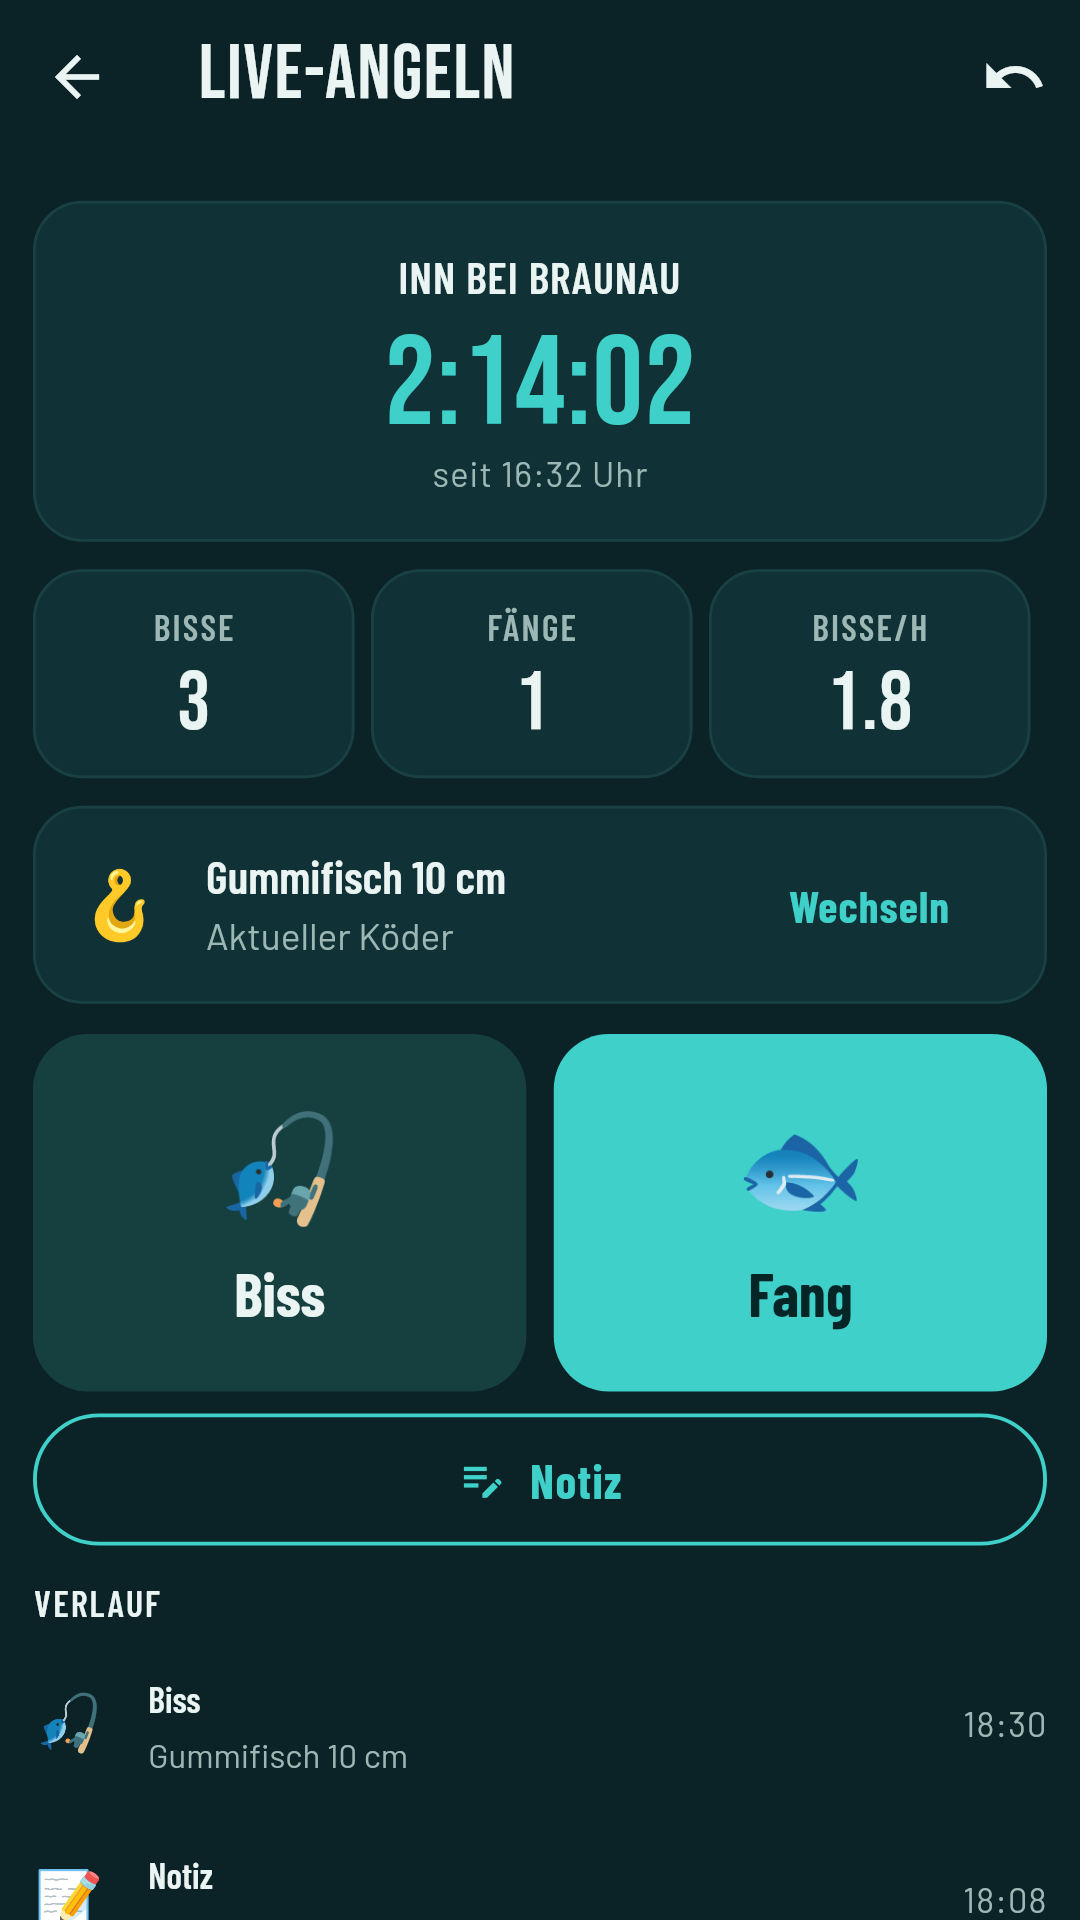
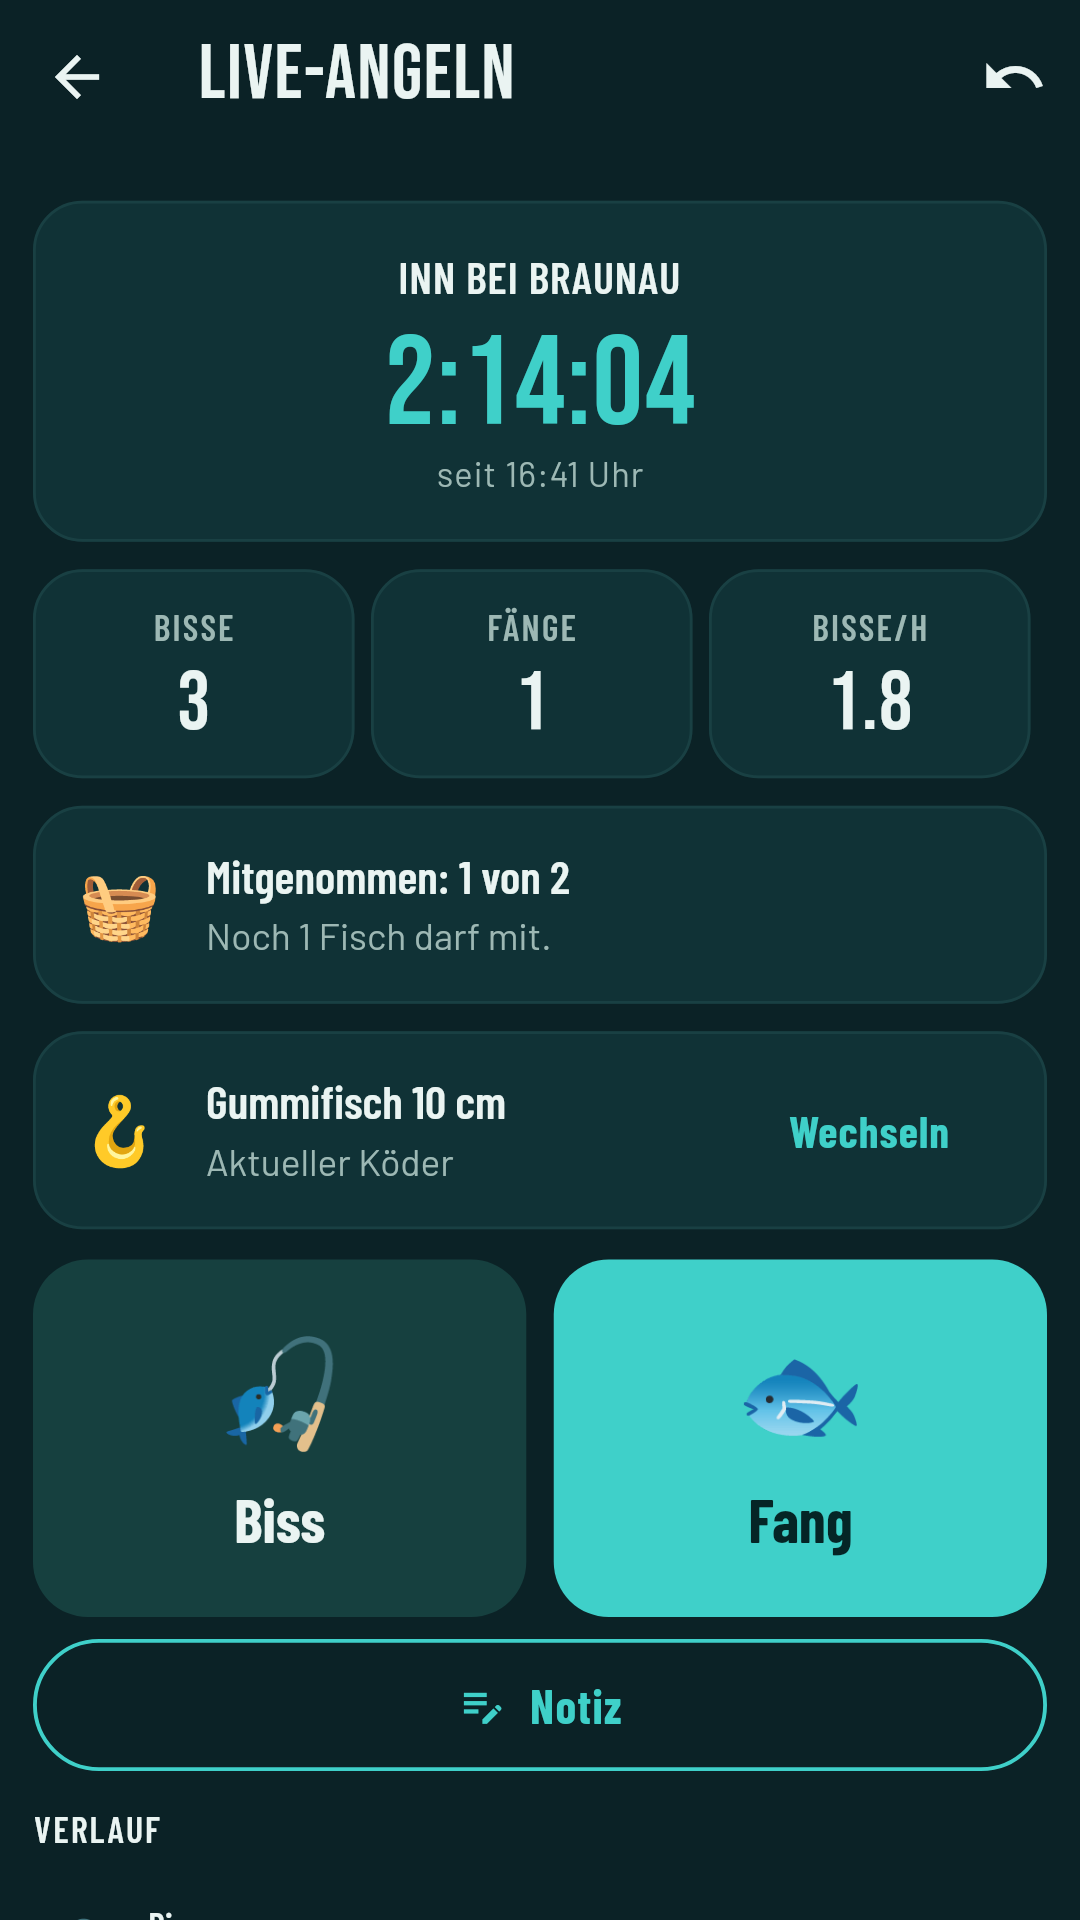
Live-Angeln: Tageslimit laut Revier; Fang-Formular gibt den Fang zurück; Fischart-Auswahl ragt nicht mehr über den Rand [skip ci]
- Limit beim Start eintragen, Anzeige 'Mitgenommen x von y', Warnung beim Erreichen
- Fischart-Dropdown mit isExpanded (lange Namen ragten im klassischen Design 113 px hinaus)
- Test für den ganzen Ablauf Live-Angeln → Formular → Limit

Claude-Session: https://claude.ai/code/session_01JSqKKxvkfQShscKWMRN2jr

diff --git a/apps/austro_angler/test/widget_test.dart b/apps/austro_angler/test/widget_test.dart
@@ -1,3 +1,4 @@
+import 'dart:convert';
 import 'dart:typed_data';
 
 import 'package:austro_angler/data/fische.dart';
@@ -22,6 +23,8 @@ import 'package:austro_angler/services/angelplaner.dart';
 import 'package:austro_angler/services/abzeichen.dart';
 import 'package:austro_angler/screens/karriere_screen.dart';
 import 'package:austro_angler/screens/petri_screen.dart';
+import 'package:austro_angler/screens/live_angeln_screen.dart';
+import 'package:austro_angler/screens/fangbuch_screen.dart';
 import 'package:austro_angler/services/alle_gewaesser.dart';
 import 'package:austro_angler/services/konto.dart';
 import 'package:austro_angler/services/speicher.dart';
@@ -290,10 +293,10 @@ void main() {
     final start = DateTime(2026, 6, 1, 6);
     final s = Sitzung(start: start, gewaesser: 'Wörthersee', koeder: 'Wurm');
     s.eintraege.addAll([
-      (zeit: start.add(const Duration(minutes: 10)), art: Ereignis.biss, text: 'Wurm'),
-      (zeit: start.add(const Duration(minutes: 20)), art: Ereignis.koeder, text: 'Spinner'),
-      (zeit: start.add(const Duration(minutes: 30)), art: Ereignis.fang, text: 'Spinner'),
-      (zeit: start.add(const Duration(minutes: 40)), art: Ereignis.notiz, text: 'Wind'),
+      (zeit: start.add(const Duration(minutes: 10)), art: Ereignis.biss, text: 'Wurm', mit: false),
+      (zeit: start.add(const Duration(minutes: 20)), art: Ereignis.koeder, text: 'Spinner', mit: false),
+      (zeit: start.add(const Duration(minutes: 30)), art: Ereignis.fang, text: 'Spinner', mit: false),
+      (zeit: start.add(const Duration(minutes: 40)), art: Ereignis.notiz, text: 'Wind', mit: false),
     ]);
     final ende = start.add(const Duration(hours: 2));
     expect(s.zaehle(Ereignis.biss), 1);
@@ -305,6 +308,20 @@ void main() {
     expect(kopie.gewaesser, 'Wörthersee');
     expect(kopie.eintraege.length, 4);
     expect(kopie.eintraege[2].art, Ereignis.fang);
+
+    // Tageslimit: nur mitgenommene Fische zählen.
+    final mitLimit = Sitzung(start: start, gewaesser: 'Inn', koeder: '', limit: 2)
+      ..eintraege.addAll([
+        (zeit: start, art: Ereignis.fang, text: '', mit: true),
+        (zeit: start, art: Ereignis.fang, text: '', mit: false),
+      ]);
+    expect(mitLimit.mitgenommen, 1);
+    expect(mitLimit.limitErreicht, isFalse);
+    mitLimit.eintraege.add((zeit: start, art: Ereignis.fang, text: '', mit: true));
+    expect(mitLimit.limitErreicht, isTrue);
+    final json = Sitzung.fromJson(jsonDecode(jsonEncode(mitLimit.toJson())) as Map<String, dynamic>)!;
+    expect(json.limit, 2);
+    expect(json.mitgenommen, 2);
   });
 
   test('Regeln heute: Status passt zu den Regeln', () {
@@ -501,5 +518,46 @@ void main() {
     // Ist das Zeitfenster heute schon vorbei, zählt der Tag nicht mehr.
     final spaet = besterTermin(plan, jetzt: DateTime(2026, 11, 10, 23));
     expect(spaet!.tag.tag, isNot(DateTime(2026, 11, 10)));
+  });
+
+  testWidgets('Live-Angeln: Fang aus dem Formular zählt fürs Tageslimit',
+      (tester) async {
+    tester.view.physicalSize = const Size(1080, 2400);
+    tester.view.devicePixelRatio = 2.5;
+    addTearDown(tester.view.reset);
+    SharedPreferences.setMockInitialValues({'einfuehrung': true, 'wasIstNeu': 99});
+    final speicher = await Speicher.oeffnen();
+    liveAngeln.sitzung = Sitzung(
+        start: DateTime.now().subtract(const Duration(hours: 1)),
+        gewaesser: 'Inn',
+        koeder: 'Wurm',
+        limit: 1);
+    addTearDown(() => liveAngeln.sitzung = null);
+    await tester.pumpWidget(AustroAnglerApp(speicher: speicher));
+    await tester.pump();
+    tester.state<NavigatorState>(find.byType(Navigator).first).push(
+        MaterialPageRoute(builder: (_) => const LiveAngelnScreen()));
+    for (var i = 0; i < 5; i++) {
+      await tester.pump(const Duration(milliseconds: 200));
+    }
+    expect(find.text('Mitgenommen: 0 von 1'), findsOneWidget);
+    await tester.tap(find.text('Fang'));
+    for (var i = 0; i < 5; i++) {
+      await tester.pump(const Duration(milliseconds: 200));
+    }
+    final speichern = find.widgetWithText(FilledButton, 'Speichern');
+    await tester.scrollUntilVisible(speichern, 300,
+        scrollable: find
+            .descendant(
+                of: find.byType(FangFormular), matching: find.byType(Scrollable))
+            .first);
+    await tester.tap(speichern);
+    for (var i = 0; i < 10; i++) {
+      await tester.pump(const Duration(milliseconds: 200));
+    }
+    expect(speicher.faenge.length, 1);
+    expect(liveAngeln.sitzung!.mitgenommen, 1);
+    expect(find.text('Mitgenommen: 1 von 1'), findsOneWidget);
+    expect(find.textContaining('Tageslimit erreicht'), findsWidgets);
   });
 }

diff --git a/apps/austro_angler/lib/screens/live_angeln_screen.dart b/apps/austro_angler/lib/screens/live_angeln_screen.dart
@@ -4,6 +4,7 @@ import 'package:flutter/material.dart';
 
 import '../design.dart';
 import '../main.dart';
+import '../models/fang.dart';
 import '../services/fang_dienst.dart';
 import '../services/live_angeln.dart';
 import '../services/fern_konfig.dart';
@@ -23,6 +24,7 @@ class LiveAngelnScreen extends StatefulWidget {
 class _LiveAngelnScreenState extends State<LiveAngelnScreen> {
   String _gewaesser = '';
   final _koeder = TextEditingController();
+  final _limit = TextEditingController();
   Timer? _uhr;
 
   @override
@@ -39,6 +41,7 @@ class _LiveAngelnScreenState extends State<LiveAngelnScreen> {
   void dispose() {
     _uhr?.cancel();
     _koeder.dispose();
+    _limit.dispose();
     super.dispose();
   }
 
@@ -68,13 +71,24 @@ class _LiveAngelnScreenState extends State<LiveAngelnScreen> {
   }
 
   Future<void> _fang(Sitzung s) async {
-    final gespeichert = await Navigator.of(context).push<bool>(
+    final ergebnis = await Navigator.of(context).push<Object?>(
       MaterialPageRoute(
         builder: (_) => FangFormular(
             vorGewaesser: s.gewaesser, vorKoeder: s.koeder),
       ),
     );
-    if (gespeichert == true) await liveAngeln.eintragen(Ereignis.fang);
+    if (ergebnis is! Fang) return;
+    final mit = !ergebnis.zurueckgesetzt;
+    final schonVoll = s.limitErreicht;
+    await liveAngeln.eintragen(Ereignis.fang, null, mit);
+    if (!mounted || !mit || s.limit == null) return;
+    if (schonVoll) {
+      meldung(context,
+          'Achtung: Dein Tageslimit von ${s.limit} Fischen war schon erreicht!');
+    } else if (s.limitErreicht) {
+      meldung(context,
+          'Tageslimit erreicht (${s.limit} Fische) – ab jetzt nur noch zurücksetzen.');
+    }
   }
 
   Future<void> _beenden() async {
@@ -170,6 +184,16 @@ class _LiveAngelnScreenState extends State<LiveAngelnScreen> {
             prefixIcon: Icon(Icons.phishing),
           ),
         ),
+        const SizedBox(height: 12),
+        TextField(
+          controller: _limit,
+          keyboardType: TextInputType.number,
+          decoration: const InputDecoration(
+            labelText: 'Tageslimit laut Revier (optional)',
+            hintText: 'z. B. 2 – so viele Fische dürfen mit',
+            prefixIcon: Icon(Icons.shopping_basket_outlined),
+          ),
+        ),
         const SizedBox(height: 20),
         FilledButton.icon(
           onPressed: () {
@@ -177,7 +201,8 @@ class _LiveAngelnScreenState extends State<LiveAngelnScreen> {
               meldung(context, 'Bitte zuerst ein Gewässer wählen.');
               return;
             }
-            liveAngeln.starten(_gewaesser, _koeder.text);
+            liveAngeln.starten(_gewaesser, _koeder.text,
+                limit: int.tryParse(_limit.text.trim()));
           },
           icon: const Icon(Icons.play_arrow),
           label: const Text('Los geht’s'),
@@ -221,6 +246,7 @@ class _LiveAngelnScreenState extends State<LiveAngelnScreen> {
             _Zahl('BISSE/H', s.bisseProStunde(jetzt).toStringAsFixed(1)),
           ],
         ),
+        if (s.limit != null) _Limit(s),
         Card(
           child: ListTile(
             leading: const Text('🪝', style: TextStyle(fontSize: 24)),
@@ -322,6 +348,35 @@ String _zusammenfassungText(Sitzung s, DateTime ende) {
     '${s.zaehle(Ereignis.biss)} Bisse, ${s.zaehle(Ereignis.fang)} Fänge',
     if (koeder != null) 'Bester Köder: $koeder',
   ].join(' · ');
+}
+
+/// Tageslimit: mitgenommene Fische von erlaubten.
+class _Limit extends StatelessWidget {
+  const _Limit(this.s);
+
+  final Sitzung s;
+
+  @override
+  Widget build(BuildContext context) {
+    final schema = Theme.of(context).colorScheme;
+    final voll = s.limitErreicht;
+    return Card(
+      color: voll ? schema.errorContainer : null,
+      child: ListTile(
+        leading: Text(voll ? '⛔' : '🧺', style: const TextStyle(fontSize: 24)),
+        title: Text('Mitgenommen: ${s.mitgenommen} von ${s.limit}',
+            style: TextStyle(color: voll ? schema.onErrorContainer : null)),
+        subtitle: Text(
+          voll
+              ? 'Tageslimit erreicht – ab jetzt nur noch zurücksetzen.'
+              : s.limit! - s.mitgenommen == 1
+                  ? 'Noch 1 Fisch darf mit.'
+                  : 'Noch ${s.limit! - s.mitgenommen} Fische dürfen mit.',
+          style: TextStyle(color: voll ? schema.onErrorContainer : null),
+        ),
+      ),
+    );
+  }
 }
 
 class _Zahl extends StatelessWidget {

diff --git a/apps/austro_angler/lib/services/live_angeln.dart b/apps/austro_angler/lib/services/live_angeln.dart
@@ -15,7 +15,8 @@ enum Ereignis {
   final String titel;
 }
 
-typedef Eintrag = ({DateTime zeit, Ereignis art, String text});
+/// [mit]: bei einem Fang, ob der Fisch mitgenommen wurde (Tageslimit).
+typedef Eintrag = ({DateTime zeit, Ereignis art, String text, bool mit});
 
 /// Laufender Angeltag („Live-Angeln“): Zeit, Bisse, Fänge und Köderwechsel.
 /// Wird am Gerät gespeichert, damit nichts verloren geht, wenn das Handy
@@ -25,8 +26,18 @@ class Sitzung {
     required this.start,
     required this.gewaesser,
     required this.koeder,
+    this.limit,
     List<Eintrag>? eintraege,
   }) : eintraege = eintraege ?? [];
+
+  /// Tageslimit laut Revier: so viele Fische dürfen mit (null = keins).
+  final int? limit;
+
+  /// Mitgenommene Fische.
+  int get mitgenommen =>
+      eintraege.where((e) => e.art == Ereignis.fang && e.mit).length;
+
+  bool get limitErreicht => limit != null && mitgenommen >= limit!;
 
   final DateTime start;
   final String gewaesser;
@@ -63,9 +74,15 @@ class Sitzung {
         'start': start.toIso8601String(),
         'gewaesser': gewaesser,
         'koeder': koeder,
+        if (limit != null) 'limit': limit,
         'eintraege': [
           for (final e in eintraege)
-            {'zeit': e.zeit.toIso8601String(), 'art': e.art.name, 'text': e.text},
+            {
+              'zeit': e.zeit.toIso8601String(),
+              'art': e.art.name,
+              'text': e.text,
+              if (e.mit) 'mit': true,
+            },
         ],
       };
 
@@ -76,6 +93,7 @@ class Sitzung {
       start: start,
       gewaesser: j['gewaesser'] as String? ?? '',
       koeder: j['koeder'] as String? ?? '',
+      limit: (j['limit'] as num?)?.toInt(),
       eintraege: [
         for (final e in (j['eintraege'] as List?) ?? const [])
           if (e is Map &&
@@ -85,6 +103,7 @@ class Sitzung {
               zeit: DateTime.parse(e['zeit'] as String),
               art: Ereignis.values.asNameMap()[e['art']]!,
               text: e['text'] as String? ?? '',
+              mit: e['mit'] == true,
             ),
       ],
     );
@@ -129,13 +148,16 @@ class LiveAngeln extends ChangeNotifier {
     }
   }
 
-  Future<void> starten(String gewaesser, String koeder) {
+  Future<void> starten(String gewaesser, String koeder, {int? limit}) {
     sitzung = Sitzung(
-        start: DateTime.now(), gewaesser: gewaesser.trim(), koeder: koeder.trim());
+        start: DateTime.now(),
+        gewaesser: gewaesser.trim(),
+        koeder: koeder.trim(),
+        limit: limit != null && limit > 0 ? limit : null);
     return _speichern();
   }
 
-  Future<void> eintragen(Ereignis art, [String? text]) {
+  Future<void> eintragen(Ereignis art, [String? text, bool mit = false]) {
     final s = sitzung;
     if (s == null) return Future.value();
     if (art == Ereignis.koeder && text != null) s.koeder = text.trim();
@@ -143,6 +165,7 @@ class LiveAngeln extends ChangeNotifier {
       zeit: DateTime.now(),
       art: art,
       text: (text ?? (art == Ereignis.notiz ? '' : s.koeder)).trim(),
+      mit: art == Ereignis.fang && mit,
     ));
     return _speichern();
   }

diff --git a/apps/austro_angler/lib/screens/fangbuch_screen.dart b/apps/austro_angler/lib/screens/fangbuch_screen.dart
@@ -636,6 +636,7 @@ class _FangFormularState extends State<FangFormular> {
     }
     setState(() => _speichert = true);
     try {
+      final Fang gespeichert;
       if (_online) {
         if (widget.fang == null) _neueId ??= fangDienst.neueFangId();
         var fang = _ausFormular(widget.fang?.id ?? _neueId!);
@@ -656,14 +657,14 @@ class _FangFormularState extends State<FangFormular> {
         if (_ortGeaendert) {
           await fangDienst.fangortSpeichern(fang.uid, id, _ort);
         }
+        gespeichert = fang;
       } else {
         final speicher = SpeicherScope.of(context);
-        await speicher.fangSpeichern(
-          _ausFormular(widget.fang?.id ?? speicher.neueId()),
-        );
+        gespeichert = _ausFormular(widget.fang?.id ?? speicher.neueId());
+        await speicher.fangSpeichern(gespeichert);
       }
-      // true = gespeichert (z. B. für Live-Angeln).
-      if (mounted) Navigator.pop(context, true);
+      // Der gespeicherte Fang als Ergebnis (z. B. für Live-Angeln).
+      if (mounted) Navigator.pop(context, gespeichert);
     } catch (e) {
       if (mounted) {
         setState(() => _speichert = false);
@@ -834,10 +835,14 @@ class _FangFormularState extends State<FangFormular> {
           ],
           DropdownButtonFormField<String>(
             initialValue: _fischId,
+            // Lange Artnamen kürzen statt über den Rand zu ragen.
+            isExpanded: true,
             decoration: const InputDecoration(labelText: 'Fischart'),
             items: [
               for (final f in fische)
-                DropdownMenuItem(value: f.id, child: Text(f.name)),
+                DropdownMenuItem(
+                    value: f.id,
+                    child: Text(f.name, overflow: TextOverflow.ellipsis)),
             ],
             onChanged: (v) => setState(() => _fischId = v!),
           ),

diff --git a/apps/austro_angler/screenshots/store_test.dart b/apps/austro_angler/screenshots/store_test.dart
@@ -312,10 +312,11 @@ void main() {
 
   testWidgets('16 Live-Angeln', (tester) async {
     final start = DateTime.now().subtract(const Duration(hours: 2, minutes: 14));
-    Map<String, String> e(int min, String art, String text) => {
+    Map<String, Object> e(int min, String art, String text) => {
           'zeit': start.add(Duration(minutes: min)).toIso8601String(),
           'art': art,
           'text': text,
+          if (art == 'fang') 'mit': true,
         };
     await _starten(tester, extra: {
       ...neuDunkel,
@@ -323,6 +324,7 @@ void main() {
         'start': start.toIso8601String(),
         'gewaesser': 'Inn bei Braunau',
         'koeder': 'Gummifisch 10 cm',
+        'limit': 2,
         'eintraege': [
           e(18, 'biss', 'Spinner Gr. 3'),
           e(41, 'koeder', 'Gummifisch 10 cm'),
